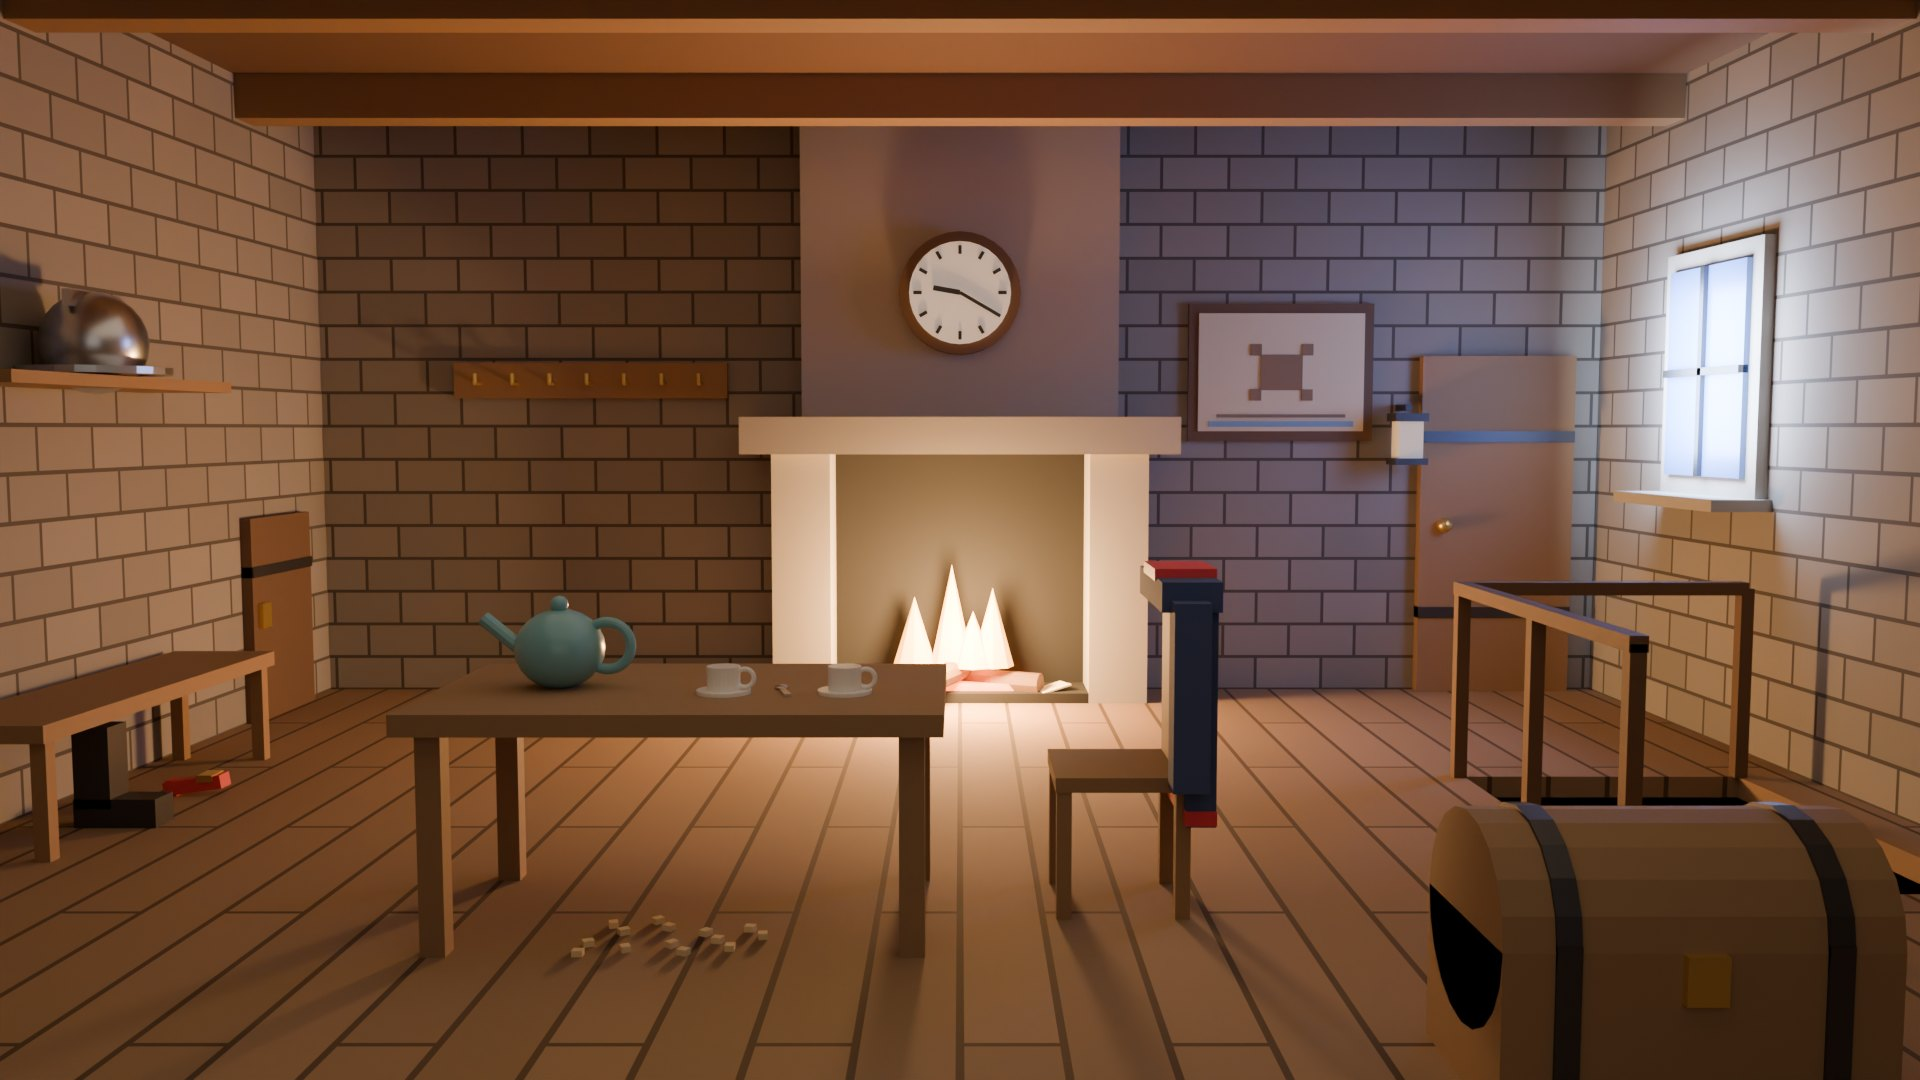
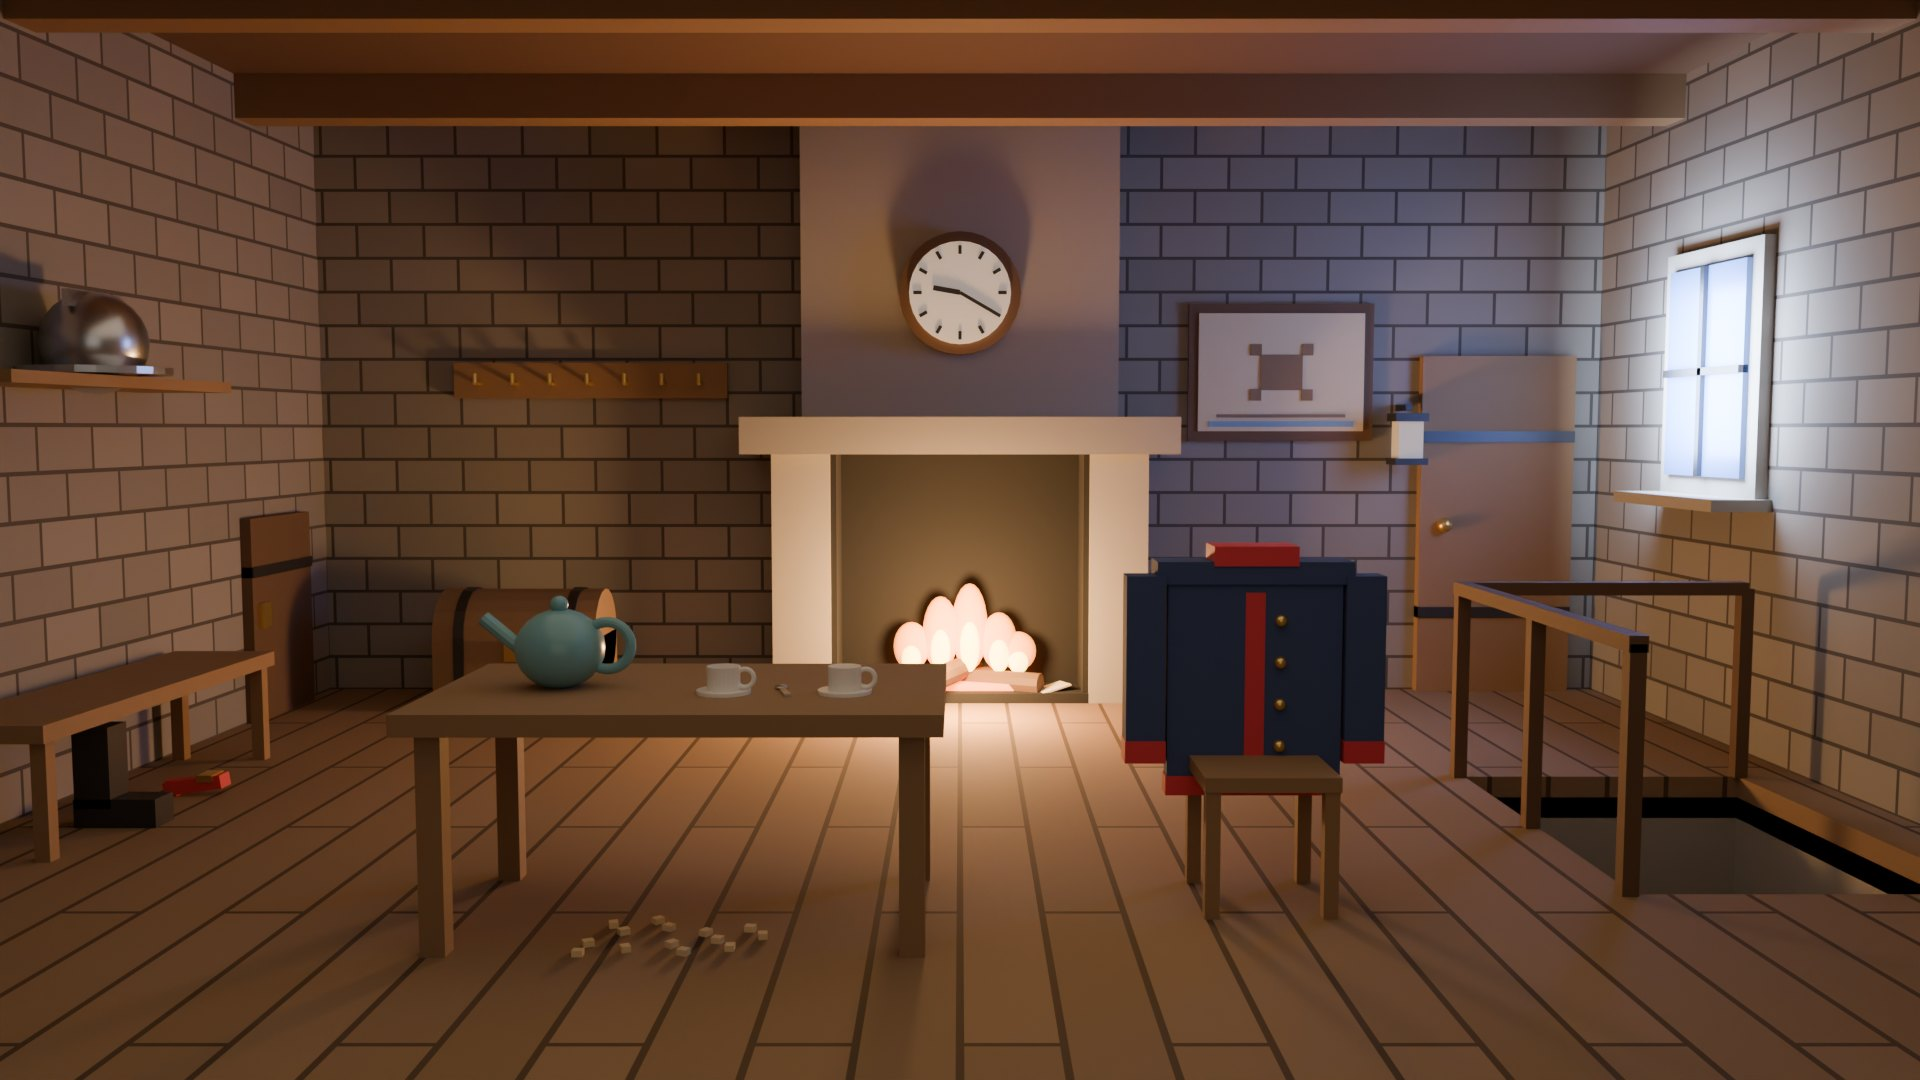
EN6: Keys of the Tower Probe – Guard Room zweite Fassung (Feuer, Truhe, Mantel)

diff --git a/werkzeuge/blender/guardroom.py b/werkzeuge/blender/guardroom.py
@@ -108,7 +108,8 @@ PAPIER = mat("papier", (0.90, 0.85, 0.70), 0.9)
 BROT = mat("kruemel", (0.85, 0.68, 0.38), 0.9)
 ZIFFER = mat("zifferblatt", (0.95, 0.92, 0.80), 0.6, emit=0.25)
 NACHT = mat("nacht", (0.10, 0.18, 0.45), 0.3, emit=1.2)
-FEUER = mat("feuer", (1.0, 0.45, 0.08), emit=5.0)
+FEUER = mat("feuer", (1.0, 0.30, 0.04), emit=3.0)
+FEUER_KERN = mat("feuer_kern", (1.0, 0.75, 0.20), emit=7.0)
 GLUT = mat("glut", (1.0, 0.18, 0.02), emit=5.0)
 LATERNE_GLAS = mat("laterne_glas", (0.9, 0.8, 0.55), 0.2, emit=0.15)  # noch aus
 
@@ -176,8 +177,11 @@ box("kamin_loch", (1.55, 0.08, 1.5), (0, -0.05, 0.75), RUSS, "kamin")
 box("kamin_boden", (1.55, 0.5, 0.06), (0, -0.25, 0.03), RUSS, "kamin")
 for i, (x, rz) in enumerate([(-0.25, 0.3), (0.2, -0.4), (0.0, 1.2)]):
     cyl(f"scheit{i}", 0.07, 0.8, (x * 0.6, -0.26, 0.10 + 0.07 * (i == 2)), HOLZ_D, "kamin", rot=(0, R(90), rz), verts=10)
-for i, (x, h) in enumerate([(-0.28, 0.42), (-0.05, 0.62), (0.2, 0.48), (0.08, 0.34)]):
-    cone(f"flamme{i}", 0.13, h, (x, -0.26 - 0.03 * i, 0.2 + h / 2), FEUER, "kamin")
+for i, (x, h) in enumerate([(-0.30, 0.30), (-0.12, 0.46), (0.06, 0.54), (0.24, 0.36), (0.36, 0.24)]):
+    ball(f"flamme{i}", 0.11, (x, -0.24, 0.16 + h / 2), FEUER, "kamin", scale=(1, 0.7, h / 0.22))
+    ball(f"flamme_kern{i}", 0.06, (x, -0.30, 0.14 + h / 3), FEUER_KERN, "kamin", scale=(1, 0.7, h / 0.2))
+box("kamin_innen_l", (0.04, 0.45, 1.5), (-0.76, -0.25, 0.75), RUSS, "kamin")
+box("kamin_innen_r", (0.04, 0.45, 1.5), (0.76, -0.25, 0.75), RUSS, "kamin")
 box("glut", (0.9, 0.3, 0.04), (0, -0.26, 0.08), GLUT, "kamin")
 box("brief", (0.20, 0.14, 0.01), (0.56, -0.38, 0.075), PAPIER, "kamin", rot=(0, R(-12), R(25)))
 
@@ -258,20 +262,26 @@ for i in range(14):
     box(f"kruemel{i}", (0.035, 0.03, 0.02), (kx, ky, 0.01), BROT, "kruemel", rot=(0, 0, i))
 
 # Stuhl mit dem Mantel von Mr Pike (dunkelblau mit rotem Rand)
-SX, SY = 0.55, -4.25
+SX, SY = 1.05, -4.25
 box("stuhl_sitz", (0.46, 0.46, 0.05), (SX, SY, 0.46), HOLZ)
 for dx in (-0.2, 0.2):
     for dy in (-0.2, 0.2):
         box("stuhlbein", (0.05, 0.05, 0.46), (SX + dx, SY + dy, 0.23), HOLZ)
-box("stuhl_lehne", (0.05, 0.46, 0.60), (SX + 0.21, SY, 0.78), HOLZ)
-box("mantel_ruecken", (0.10, 0.56, 0.78), (SX + 0.25, SY, 0.72), BLAU, "mantel")
-box("mantel_schulter", (0.20, 0.60, 0.10), (SX + 0.21, SY, 1.10), BLAU, "mantel")
-box("mantel_rand", (0.105, 0.57, 0.05), (SX + 0.25, SY, 0.36), ROT, "mantel")
-box("mantel_kragen", (0.21, 0.30, 0.04), (SX + 0.21, SY, 1.16), ROT, "mantel")
-box("mantel_aermel", (0.12, 0.12, 0.62), (SX + 0.20, SY - 0.33, 0.78), BLAU, "mantel")
+box("stuhl_lehne", (0.46, 0.05, 0.62), (SX, SY + 0.21, 0.79), HOLZ)
+MY = SY + 0.16
+box("mantel_ruecken", (0.62, 0.08, 0.80), (SX, MY, 0.74), BLAU, "mantel")
+box("mantel_schulter", (0.70, 0.18, 0.08), (SX, MY + 0.04, 1.14), BLAU, "mantel")
+box("mantel_kragen", (0.30, 0.19, 0.07), (SX, MY + 0.04, 1.20), ROT, "mantel")
+box("mantel_saum", (0.63, 0.085, 0.07), (SX, MY, 0.375), ROT, "mantel")
+box("mantel_streifen", (0.07, 0.085, 0.66), (SX, MY, 0.74), ROT, "mantel")
+for dx in (-0.39, 0.39):
+    box("mantel_aermel", (0.14, 0.12, 0.66), (SX + dx, MY, 0.80), BLAU, "mantel")
+    box("mantel_aufschlag", (0.145, 0.125, 0.08), (SX + dx, MY, 0.50), ROT, "mantel")
+for k in range(4):
+    ball("mantel_knopf", 0.022, (SX + 0.09, MY - 0.045, 0.52 + k * 0.15), MESSING, "mantel")
 
 # Truhe vorn links (die Truhe des Kindes)
-CX, CY = 1.75, -5.7
+CX, CY = -2.6, -0.5
 box("truhe", (0.95, 0.55, 0.42), (CX, CY, 0.21), HOLZ, "truhe")
 cyl("truhe_deckel", 0.275, 0.95, (CX, CY, 0.42), HOLZ, "truhe", rot=(0, R(90), 0), verts=20)
 for dx in (-0.32, 0.32):
@@ -336,7 +346,7 @@ def licht(name, typ, energie, farbe, loc, rot=(0, 0, 0), groesse=None):
     return ob
 
 
-licht("feuer", "POINT", 500, (1.0, 0.55, 0.22), (0, -0.75, 0.55))
+licht("feuer", "POINT", 260, (1.0, 0.55, 0.22), (0, -0.95, 0.5))
 licht("raum", "AREA", 45, (1.0, 0.82, 0.60), (0, -5.0, 3.3), groesse=5.0)
 licht("vorn", "AREA", 30, (1.0, 0.85, 0.70), (0, -9.5, 2.6), rot=(R(75), 0, 0), groesse=4.0)
 licht("mond", "AREA", 160, (0.55, 0.70, 1.0), (B - 0.3, FY, FZ), rot=(0, R(-90), 0), groesse=0.9)
